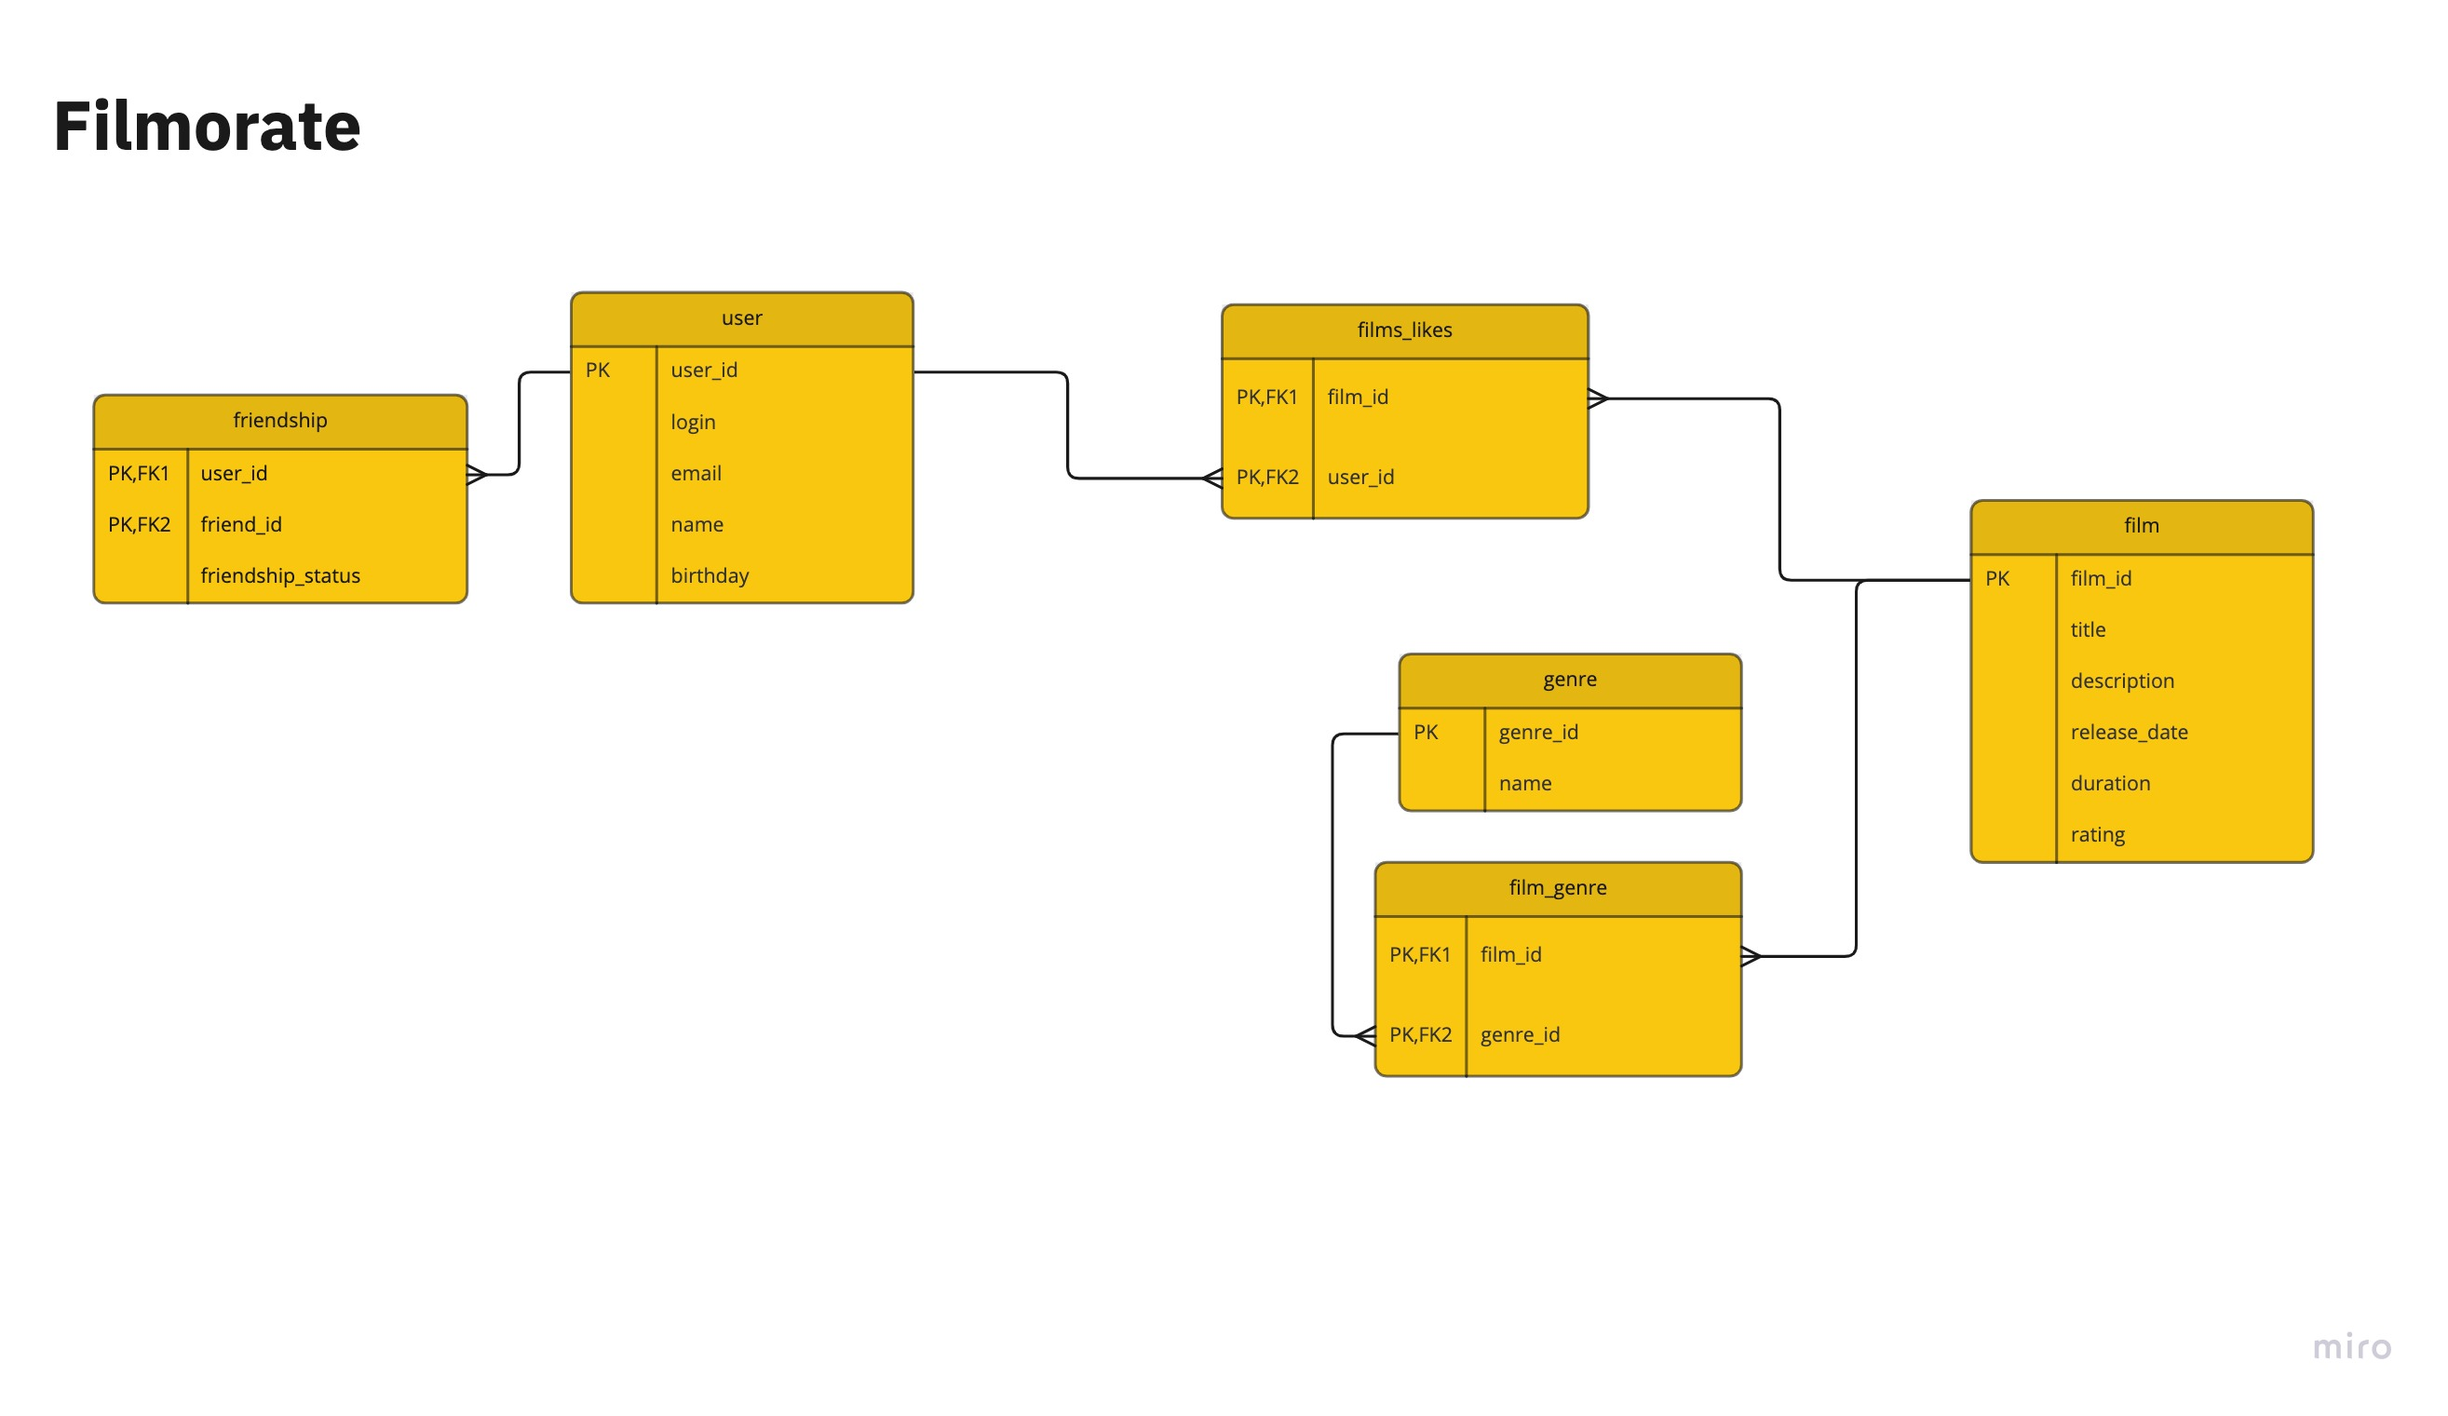
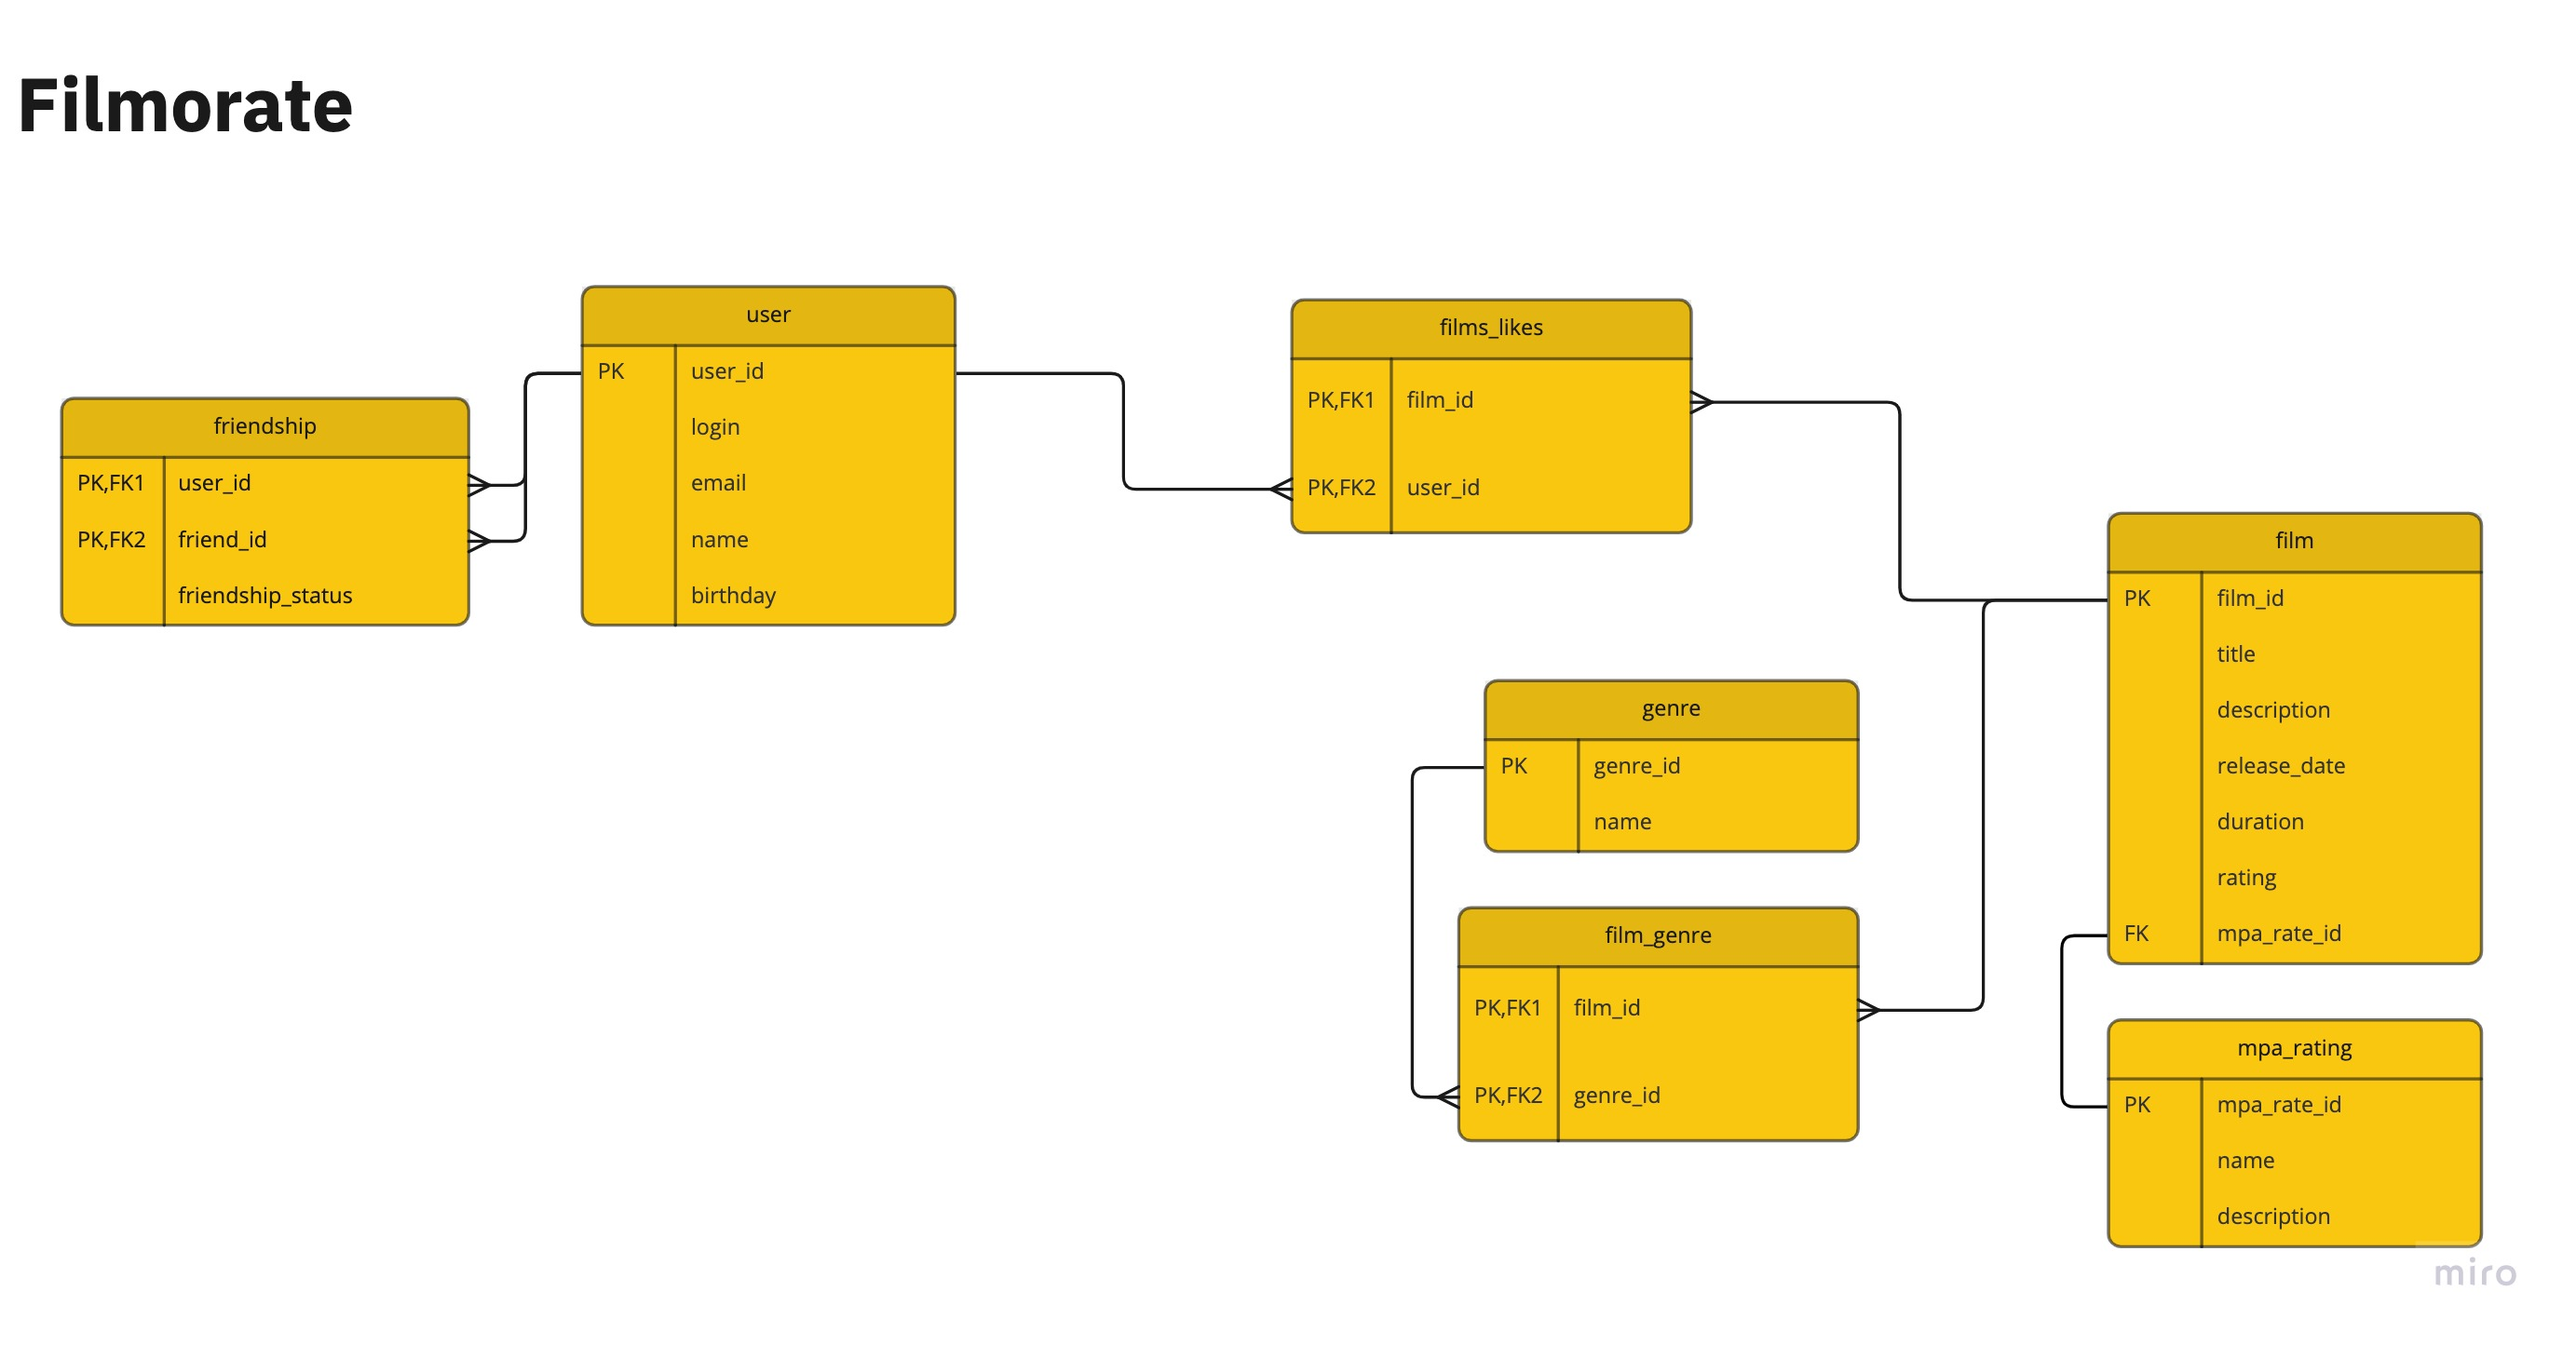
style: added mpa_rating table to er-diagram, added sql-requests descriptions

diff --git a/README.md b/README.md
@@ -1,24 +1,20 @@
 # java-filmorate
-Template repository for Filmorate project.  
 
-Shown a filmorateDB er-diagram
+### Shown a filmorateDB er-diagram
 
-<picture>
-  <source media="(prefers-color-scheme: dark)" srcset="http://ipic.su/img/img7/fs/filmorate-er-diagram.1664635129.jpg">
-  <source media="(prefers-color-scheme: light)" srcset="http://ipic.su/img/img7/fs/filmorate-er-diagram.1664635129.jpg">
-  <img alt="Shows a filmorate-er-diagram" src="http://ipic.su/img/img7/fs/filmorate-er-diagram.1664635129.jpg">
-</picture>
+![](filmorate-er-diagram.jpg)
 
-Several SQL requests:
-
-SELECT * \
-FROM film \
-WHERE rating='PG-13'  
-
+### Several SQL requests:
+#### *shows film's title whose MPA Rating equal to 'PG-13'*
+SELECT f.title \
+FROM film f \
+INNER JOIN mpa_rating mr on f.mpa_rate_id=mr.mpa_rate_id
+WHERE mr.name='PG-13'  
+#### *shows users whose birthday is equal or greater than 01-JAN-2020:*
 SELECT * FROM user \
-WHERE birthday >='20200101'  
-
-SELECT f.title, g.genre \
+WHERE birthday >='20200101'
+#### *shows film's title and genre's list for each film whose genre name equal to 'Comedy':*
+SELECT f.title, g.name \
 FROM film f \
 INNER JOIN film_genre fg on f.film_id=fg.film_id \
 INNER JOIN genre g on fg.genre_id=fg.genre_id \
